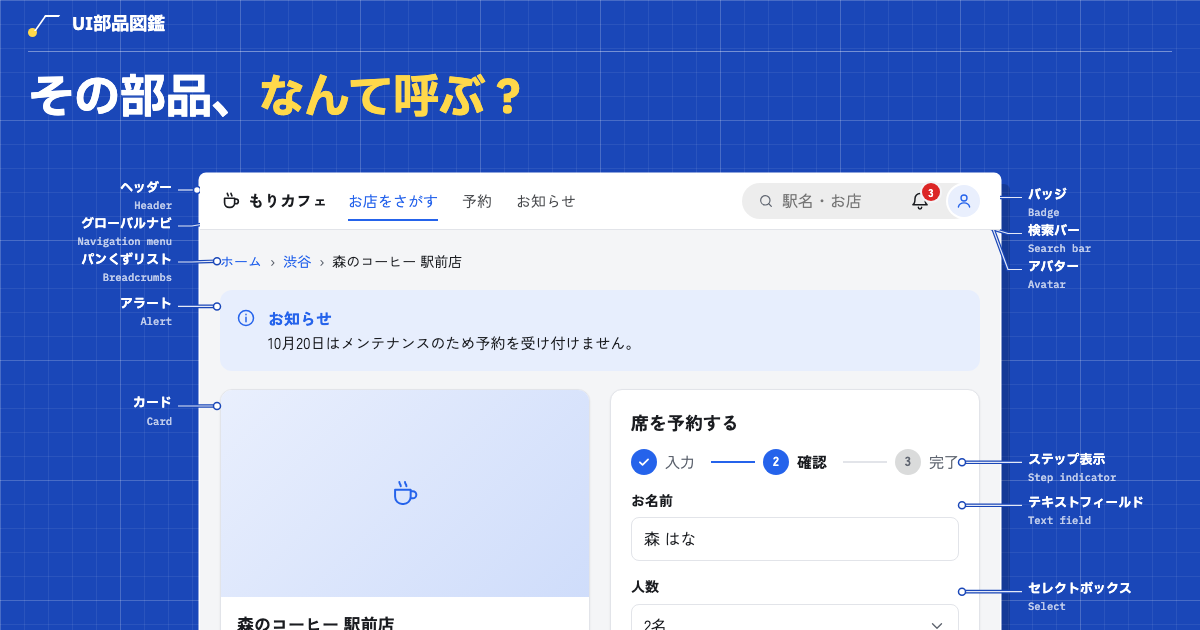
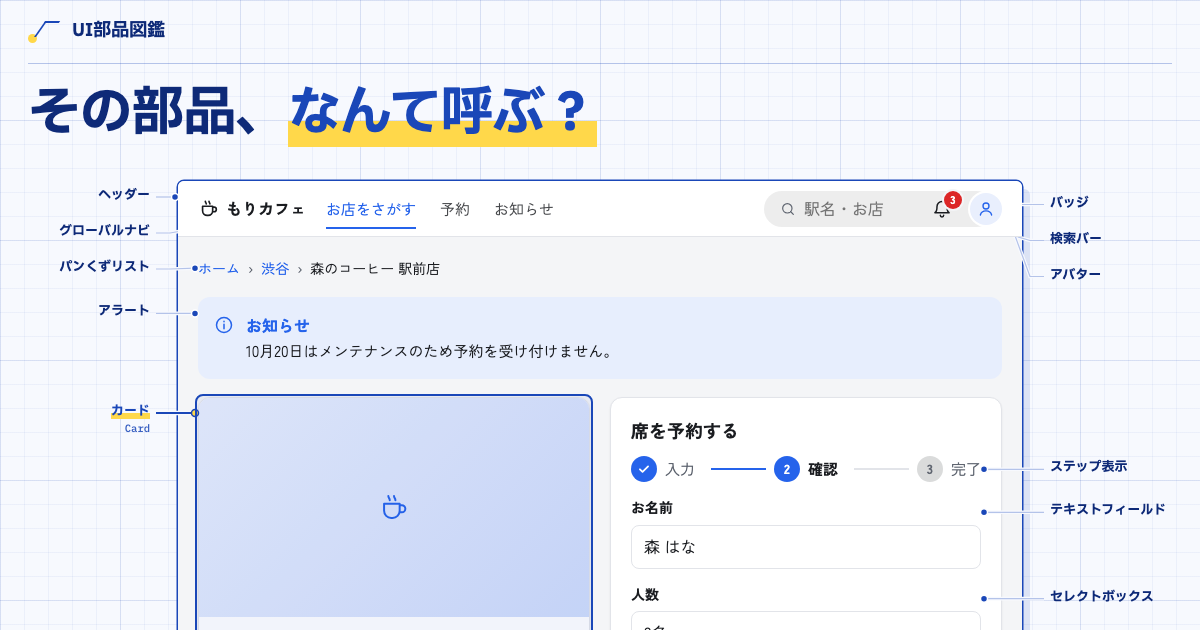
目次で選んだ部品の位置まで図面を動かし、共有画像を新しい見た目にする

diff --git a/src/components/Dictionary.tsx b/src/components/Dictionary.tsx
@@ -130,6 +130,21 @@ export default function Dictionary({ children }: { children?: ReactNode }) {
     if (!s.part && !side) opener.current = document.activeElement as HTMLElement | null;
     setS((cur) => ({ ...cur, part: id }));
   };
+  // 目次から選んだときは、図面のその部品が見えるところまでページを動かす。
+  // 図面に無い部品（重なって出る窓など）や、狭い見本で省いた部品では動かさない
+  const openFromToc = (id: string) => {
+    open(id);
+    const el = document.querySelector<HTMLElement>(`.sheet [data-part="${id}"]`);
+    const r = el?.getBoundingClientRect();
+    if (!r || !r.width || !r.height) return;
+    const dock = document.querySelector<HTMLElement>(".dock")?.offsetHeight ?? 0;
+    const viewH = window.innerHeight - dock;
+    // すでに全体が見えていれば動かさない
+    if (r.top >= 12 && r.bottom <= viewH - 12) return;
+    const top = window.scrollY + r.top - Math.max(24, (viewH - r.height) / 2);
+    const smooth = !window.matchMedia("(prefers-reduced-motion: reduce)").matches;
+    window.scrollTo({ top: Math.max(0, top), behavior: smooth ? "smooth" : "auto" });
+  };
   // 何も選んでいないときは、次＝最初、前＝最後の部品を開く
   const step = (d: number) => open(PARTS[index < 0 ? (d > 0 ? 0 : PARTS.length - 1) : (index + d + PARTS.length) % PARTS.length].id);
   const togglePick = (id: string) => setS((cur) => ({ ...cur, picks: cur.picks.includes(id) ? cur.picks.filter((x) => x !== id) : [...cur.picks, id] }));
@@ -213,7 +228,7 @@ export default function Dictionary({ children }: { children?: ReactNode }) {
                 <ul id={`toc-${c.id}`}>
                   {items.map((p) => (
                     <li key={p.id}>
-                      <button type="button" aria-current={s.part === p.id} onClick={() => open(p.id)}>
+                      <button type="button" aria-current={s.part === p.id} onClick={() => openFromToc(p.id)}>
                         {p.ja}{s.picks.includes(p.id) && <i aria-label="AIに渡す名前に入れた">●</i>}
                       </button>
                     </li>

diff --git a/tests/e2e.spec.ts b/tests/e2e.spec.ts
@@ -329,6 +329,15 @@ test("広いPC幅：目次から図面に無い部品も開ける", async ({ pag
   await expect(entryName(page)).toHaveText("モーダル");
   await expect(toc.getByRole("button", { name: "モーダル", exact: true })).toHaveAttribute("aria-current", "true");
   expect(await page.evaluate(() => scrollY)).toBe(y);
+  // 図面にある部品を目次で選ぶと、図面のその部品が見えるところまでページが動く（2026-10-19）
+  await toc.getByRole("button", { name: /^画面の骨組み/ }).click();
+  await toc.getByRole("button", { name: "フッター", exact: true }).click();
+  await expect(entryName(page)).toHaveText("フッター");
+  await expect.poll(async () => {
+    const r = (await page.locator('.sheet [data-part="footer"]').boundingBox())!;
+    const vh = page.viewportSize()!.height - 72;
+    return r.y >= 0 && r.y + r.height <= vh;
+  }).toBe(true);
   // 図面で別の分類の部品を選ぶと、その分類だけが開く
   await page.locator(".callout", { hasText: "アラート" }).click();
   await expect(toc.getByRole("button", { name: /^状態を伝える/ })).toHaveAttribute("aria-expanded", "true");

diff --git a/AGENTS.md b/AGENTS.md
@@ -16,6 +16,8 @@
 - 図面の部品の位置を変えるCSSは `.spot.クラス名` の2クラスで書く（1クラスだと後に書いた `.spot { position: relative }` に負けて浮かない。2026-10-17 にトーストがフッターに重なった）。部品どうしの重なりは e2e の overlap で検査する
 - 図面では1つの部品に1つの名前を付ける（ツールチップの札とハートのアイコンボタンを1つにまとめて名前を付けたら「これ何？」と聞かれた。2026-10-18）。狭い幅の札どうしの重なりは e2e で検査する
 - 1400px以上では左に全部品の目次を出して3列にする（図面に引き出し線を書ける幅780pxが残る幅だけ。狭いと名前の札の表示になり見にくい）。目次は分類のアコーディオンで、開くのは1つだけ（選んだ部品の分類が開く。全部並べたら「ごちゃごちゃして難しそう」と言われた。2026-10-19）。目次・説明の列を広げるときは、図面が `.drawing.is-wide` のままか e2e で確かめる
+- 目次で図面にある部品を選んだら、図面のその部品が見えるところまでページを動かす（2026-10-19 本人指示。図面に無い部品・既に見えている部品では動かさない）。説明の開閉・切り替えそのものではページを動かさない
+- 見た目を変えたら共有画像（`src/app/opengraph-image.png`、1200×630）も今の見た目で撮り直す
 - 部品の説明は、PC幅（1100px以上）では右の列に sticky でずっと出す（重ねて開く形は PC では「モーダルにしないで」と言われた。2026-10-18）。狭い幅だけ下から重ねて開く。どちらも開閉・切り替えでページの位置を動かさない。一覧のカードは <button> にしない（中の見本にボタンがあり入れ子になる）
 - 図面は文字と線を増やしすぎない。引き出し線の英語名は指した・選んだ名前だけに出し、選んでいない線は淡くする（「ごちゃごちゃして見える」と言われた。2026-10-18）。見方を説明する枠（3つ並べた凡例）を図面の上に足したら「もっとごちゃごちゃ」と言われ外した。見方は導入文の1文と右の欄の空の状態で伝える。右の欄は飾りの種類を増やさない（色の札・左の線・点線の枠を使わず、小見出しは淡い文字、ボタンは線だけ）
 - 変更後は `npm run build` → `npx playwright test`（全43部品の見本・引き出し線の重なりとはみ出し・スマホ幅も検査する）
